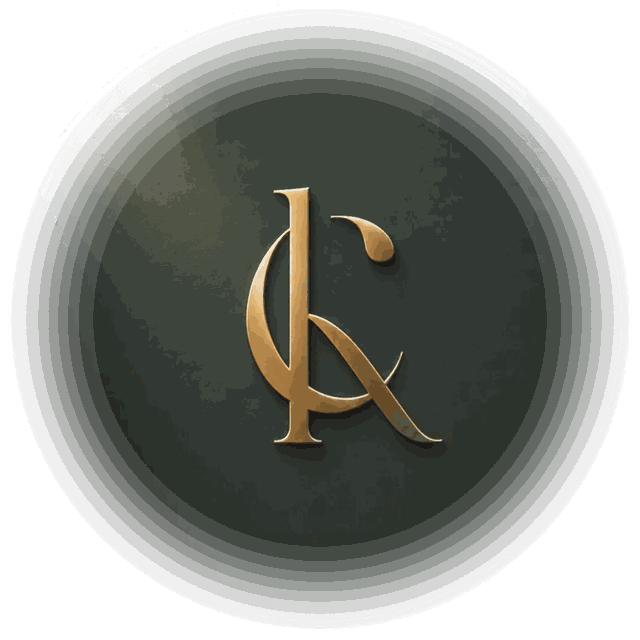
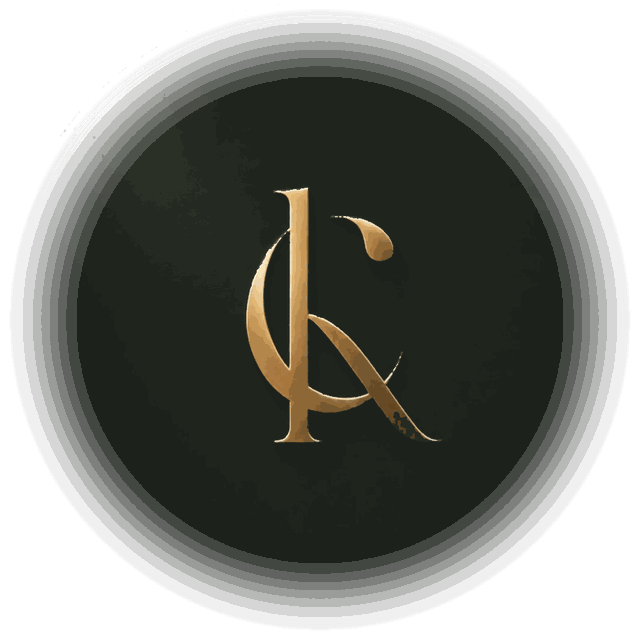
Krem&Choc: flatten the badge plate onto the page colour, more drift
Feathering the rim was not enough. Measured on the live page, the plate was
still sitting eighteen levels lighter than the green behind it and noticeably
greyer, so it read as a distinct blob however soft its edge.

The plate is now remapped onto the page colour outright: its median is moved
to var(--green-2) and its own contrast cut to a quarter, so what is left is a
whisper of the original sheen rather than a lighter disc. The gold monogram is
untouched, and the antialiased rim around it is flattened too, which takes the
dark fringe off the letterforms. Alpha still feathers out over the rim so there
is no circular edge at all.

More drift: eighteen motes in the hero instead of nine, with the second nine
smaller and slower, and quieter nine-mote blocks in the flavours, process and
enquiry sections and the footer, each with its own bloom. Mote positions are
one nine-step cycle reused by every block via nth-of-type(9n+k), so a block
just repeats the cycle at different sizes and speeds.

Fifty-four motes and six blooms in total. The widest animated layer still
measures 1120 device pixels, well inside the iOS paint ceiling, and the whole
layer is still aria-hidden, clipped, and stopped under reduced motion.

Claude-Session: https://claude.ai/code/session_012SGwqbJ397RMsSosoEn3zo

diff --git a/templates/kremchoc.css b/templates/kremchoc.css
@@ -258,15 +258,57 @@ body.ready .loader{opacity:0;visibility:hidden;pointer-events:none}
   78%{opacity:.3}
   100%{transform:translate3d(16px,-102vh,0) scale(1);opacity:0}
 }
-.amb i:nth-of-type(1){left:7%;animation-duration:30s;animation-delay:-2s}
-.amb i:nth-of-type(2){left:18%;animation-duration:41s;animation-delay:-14s;width:2px;height:2px}
-.amb i:nth-of-type(3){left:26%;animation-duration:35s;animation-delay:-25s}
-.amb i:nth-of-type(4){left:34%;animation-duration:47s;animation-delay:-8s;width:2px;height:2px}
-.amb i:nth-of-type(5){left:43%;animation-duration:33s;animation-delay:-31s}
-.amb i:nth-of-type(6){left:12%;animation-duration:44s;animation-delay:-19s;width:2px;height:2px}
-.amb i:nth-of-type(7){left:49%;animation-duration:39s;animation-delay:-5s;width:2px;height:2px}
-.amb i:nth-of-type(8){left:31%;animation-duration:52s;animation-delay:-37s}
-.amb i:nth-of-type(9){left:21%;animation-duration:37s;animation-delay:-45s;width:2px;height:2px}
+/* Nine positions, reused by every ambience block. A block with eighteen motes
+   simply runs the cycle twice at different sizes and speeds. */
+.amb i:nth-of-type(9n+1){left:7%}
+.amb i:nth-of-type(9n+2){left:18%;width:2px;height:2px}
+.amb i:nth-of-type(9n+3){left:27%}
+.amb i:nth-of-type(9n+4){left:38%;width:2px;height:2px}
+.amb i:nth-of-type(9n+5){left:47%}
+.amb i:nth-of-type(9n+6){left:59%;width:2px;height:2px}
+.amb i:nth-of-type(9n+7){left:68%}
+.amb i:nth-of-type(9n+8){left:79%;width:2px;height:2px}
+.amb i:nth-of-type(9n+9){left:90%}
+.amb i:nth-of-type(1){animation-duration:30s;animation-delay:-2s}
+.amb i:nth-of-type(2){animation-duration:41s;animation-delay:-14s}
+.amb i:nth-of-type(3){animation-duration:35s;animation-delay:-25s}
+.amb i:nth-of-type(4){animation-duration:47s;animation-delay:-8s}
+.amb i:nth-of-type(5){animation-duration:33s;animation-delay:-31s}
+.amb i:nth-of-type(6){animation-duration:44s;animation-delay:-19s}
+.amb i:nth-of-type(7){animation-duration:39s;animation-delay:-5s}
+.amb i:nth-of-type(8){animation-duration:52s;animation-delay:-37s}
+.amb i:nth-of-type(9){animation-duration:37s;animation-delay:-45s}
+.amb i:nth-of-type(10){animation-duration:58s;animation-delay:-11s;width:1px;height:1px}
+.amb i:nth-of-type(11){animation-duration:46s;animation-delay:-33s;width:1px;height:1px}
+.amb i:nth-of-type(12){animation-duration:63s;animation-delay:-21s;width:1px;height:1px}
+.amb i:nth-of-type(13){animation-duration:51s;animation-delay:-48s;width:1px;height:1px}
+.amb i:nth-of-type(14){animation-duration:55s;animation-delay:-6s;width:1px;height:1px}
+.amb i:nth-of-type(15){animation-duration:42s;animation-delay:-28s;width:1px;height:1px}
+.amb i:nth-of-type(16){animation-duration:67s;animation-delay:-16s;width:1px;height:1px}
+.amb i:nth-of-type(17){animation-duration:49s;animation-delay:-54s;width:1px;height:1px}
+.amb i:nth-of-type(18){animation-duration:60s;animation-delay:-40s;width:1px;height:1px}
+
+/* the same drift, further back, for the sections below the hero */
+.amb-quiet{position:absolute;inset:0;z-index:0;pointer-events:none;overflow:hidden}
+.amb-quiet i{opacity:0;animation-name:rise-quiet}
+@keyframes rise-quiet{
+  0%{transform:translate3d(0,0,0) scale(.5);opacity:0}
+  16%{opacity:.26}
+  76%{opacity:.16}
+  100%{transform:translate3d(20px,-96vh,0) scale(1);opacity:0}
+}
+.amb-d{
+  width:min(40vw,420px);aspect-ratio:1;right:-8%;top:8%;
+  background:radial-gradient(circle,rgba(201,160,98,.16),transparent 68%);
+  filter:blur(56px);animation:drift-b 61s ease-in-out infinite;
+}
+.amb-e{
+  width:min(46vw,480px);aspect-ratio:1;left:-10%;bottom:-10%;
+  background:radial-gradient(circle,rgba(126,158,118,.16),transparent 70%);
+  filter:blur(62px);animation:drift-a 57s ease-in-out infinite;
+}
+.sec-dark,.sec-tint{position:relative;overflow:hidden}
+.sec-dark>.wrap,.sec-tint>.wrap{position:relative;z-index:1}
 
 /* a single, still bloom behind the footer lockup */
 .amb-c{
@@ -274,7 +316,7 @@ body.ready .loader{opacity:0;visibility:hidden;pointer-events:none}
   background:radial-gradient(circle,rgba(201,160,98,.16),transparent 66%);
   filter:blur(52px);z-index:0;
 }
-.foot-in>*:not(.amb-c){position:relative;z-index:1}
+.foot-in>*:not(.amb-c):not(.amb){position:relative;z-index:1}
 
 @media (prefers-reduced-motion: reduce){
   .amb-glow,.amb i{animation:none}

diff --git a/templates/kremchoc.html b/templates/kremchoc.html
@@ -117,7 +117,7 @@
   <div class="amb" aria-hidden="true">
     <span class="amb-glow amb-a"></span>
     <span class="amb-glow amb-b"></span>
-    <i></i><i></i><i></i><i></i><i></i><i></i><i></i><i></i><i></i>
+    <i></i><i></i><i></i><i></i><i></i><i></i><i></i><i></i><i></i><i></i><i></i><i></i><i></i><i></i><i></i><i></i><i></i><i></i>
   </div>
   <div class="hero-inner">
     <p class="eyebrow" data-fx="reveal">Leicester &middot; Est. by Zahra</p>
@@ -229,6 +229,8 @@
 
 <!-- ================= FLAVOURS ================= -->
 <section class="sec sec-dark" id="flavours">
+  <div class="amb amb-quiet" aria-hidden="true"><span class="amb-glow amb-d"></span><i></i><i></i><i></i><i></i><i></i><i></i><i></i><i></i><i></i></div>
+
   <div class="wrap">
     <div class="section-head center">
       <p class="tag" data-fx="reveal">The flavours</p>
@@ -264,6 +266,8 @@
 
 <!-- ================= PROCESS ================= -->
 <section class="sec sec-tint" id="process">
+  <div class="amb amb-quiet" aria-hidden="true"><i></i><i></i><i></i><i></i><i></i><i></i><i></i><i></i><i></i></div>
+
   <div class="wrap">
     <div class="section-head">
       <p class="tag" data-fx="reveal">How it works</p>
@@ -275,6 +279,8 @@
 
 <!-- ================= ENQUIRE ================= -->
 <section class="sec sec-dark" id="enquire">
+  <div class="amb amb-quiet" aria-hidden="true"><span class="amb-glow amb-e"></span><i></i><i></i><i></i><i></i><i></i><i></i><i></i><i></i><i></i></div>
+
   <div class="wrap enq-grid">
     <div class="enq-copy">
       <p class="tag" data-fx="reveal">Enquiries</p>
@@ -403,6 +409,7 @@
 <footer class="foot">
   <div class="wrap foot-in">
     <span class="amb-glow amb-c" aria-hidden="true"></span>
+    <div class="amb amb-quiet" aria-hidden="true"><i></i><i></i><i></i><i></i><i></i><i></i><i></i><i></i><i></i></div>
     <img class="foot-logo" src="../assets/kremchoc/badge.png" alt="Krem&amp;Choc" width="640" height="640" loading="lazy">
     <p class="foot-line">Bespoke cakes for every occasion.</p>
     <div class="socials" id="socials"></div>
